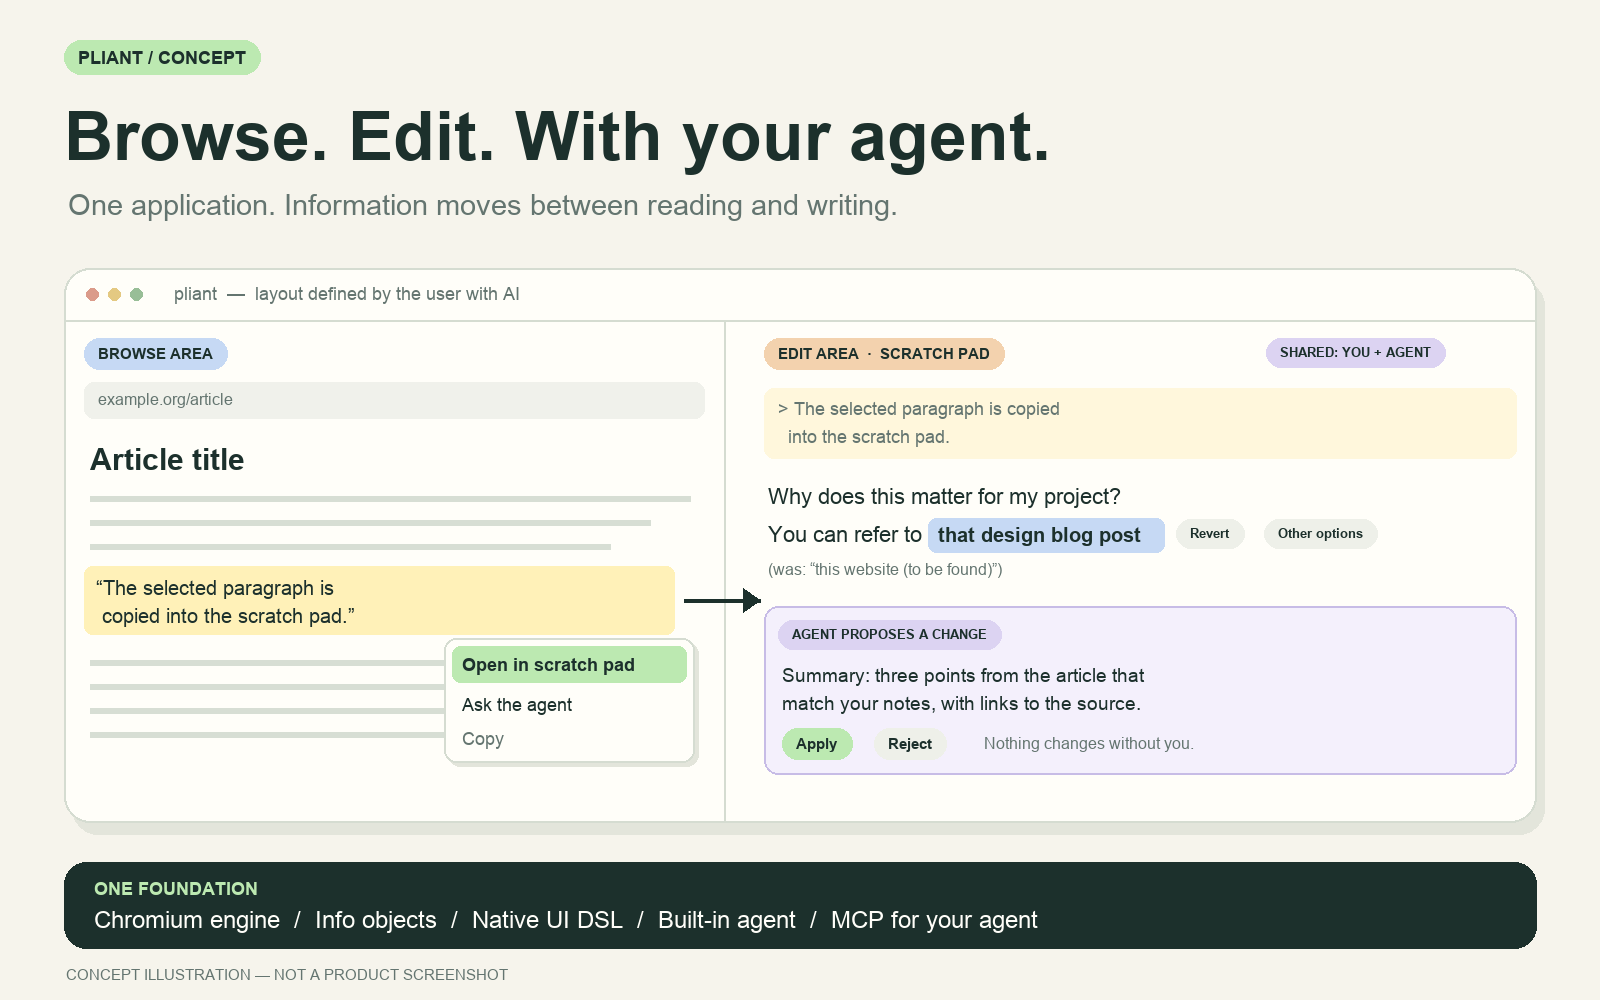
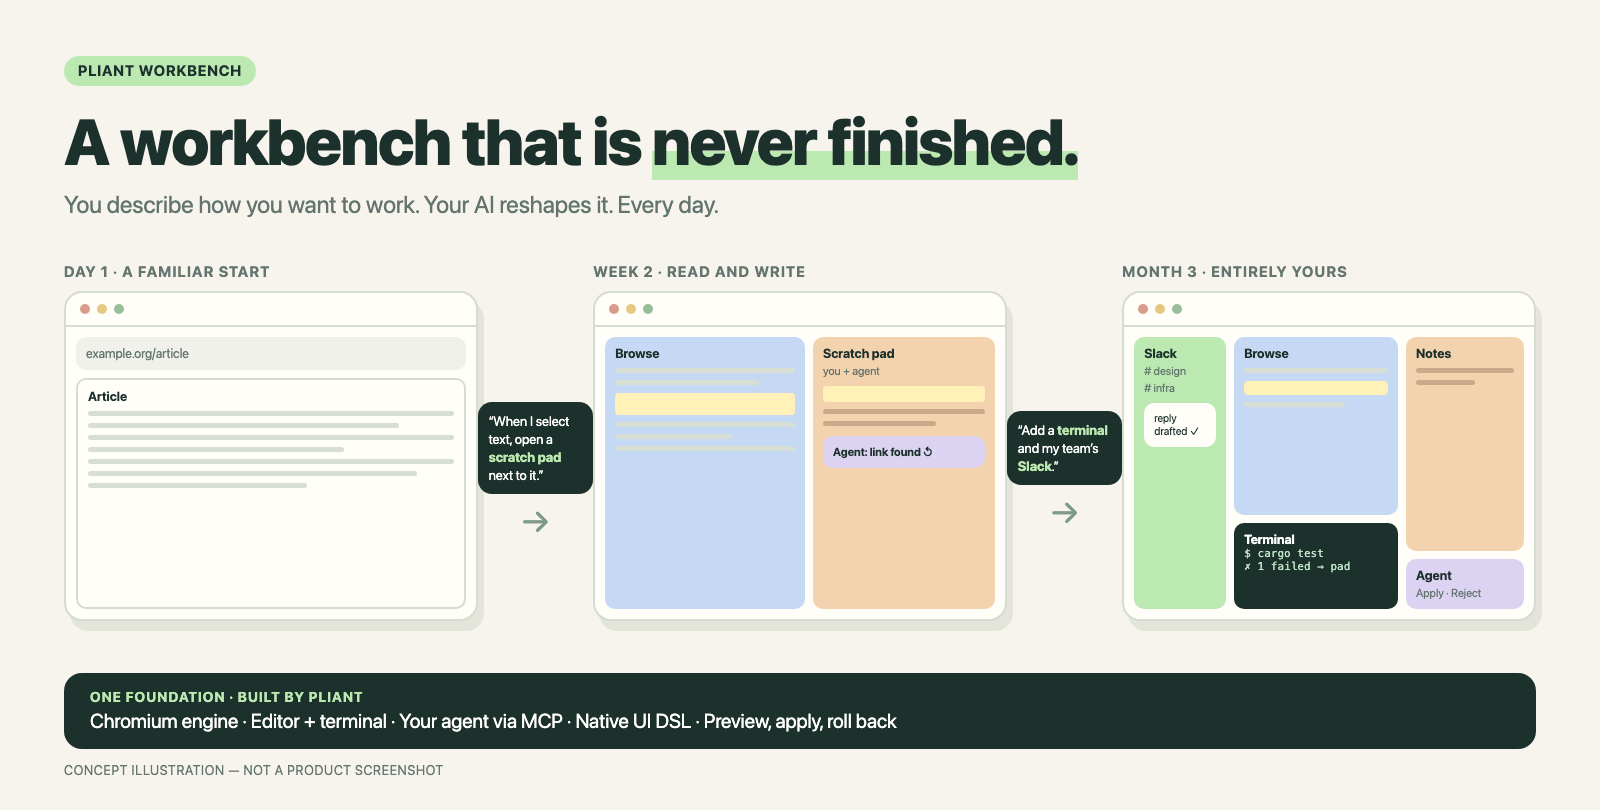
docs: redraw hero in HTML as an evolving workbench

diff --git a/assets/hero.html b/assets/hero.html
@@ -1,0 +1,79 @@
+<!doctype html>
+<!-- Source for assets/hero.png. Render: tools/render_hero.sh -->
+<html><head><meta charset="utf-8"><style>
+:root{--ink:#1C302C;--muted:#647570;--paper:#F6F4EC;--line:#D5DCD1;--white:#FFFEF9;
+--green:#BCE9B1;--blue:#C6D9F4;--orange:#F3D2AE;--purple:#DCD3F2;--yellow:#FFF1B8}
+*{box-sizing:border-box;margin:0;padding:0}
+body{width:1600px;height:810px;background:var(--paper);font-family:-apple-system,"SF Pro Display","Helvetica Neue",Arial,sans-serif;color:var(--ink);padding:56px 64px;overflow:hidden}
+.tag{display:inline-block;background:var(--green);border-radius:20px;padding:6px 14px;font-size:15px;font-weight:700;letter-spacing:.06em}
+h1{font-size:64px;font-weight:800;letter-spacing:-.02em;margin-top:18px}
+h1 em{font-style:normal;background:linear-gradient(transparent 62%,var(--green) 62%)}
+.sub{font-size:24px;color:var(--muted);margin-top:10px}
+.row{display:flex;align-items:flex-start;gap:0;margin-top:44px}
+.stage{width:430px}
+.when{font-size:15px;font-weight:700;letter-spacing:.08em;color:var(--muted);margin-bottom:10px}
+.win{height:330px;background:var(--white);border:2px solid var(--line);border-radius:18px;box-shadow:6px 10px 0 #E3E5DB;overflow:hidden;display:flex;flex-direction:column}
+.bar{height:34px;border-bottom:2px solid var(--line);display:flex;align-items:center;gap:7px;padding:0 14px;flex:none}
+.dot{width:10px;height:10px;border-radius:50%}
+.body{flex:1;display:flex;gap:8px;padding:10px}
+.col{display:flex;flex-direction:column;gap:8px}
+.p{border-radius:10px;padding:9px 10px;font-size:13px;font-weight:700;position:relative}
+.p small{display:block;font-weight:400;color:var(--muted);margin-top:3px;font-size:11.5px}
+.ln{height:5px;border-radius:3px;background:#D7DED4;margin-top:7px}
+.hl{background:var(--yellow);border-radius:4px;height:22px;margin-top:8px}
+.mono{font-family:"SF Mono",Menlo,monospace;font-weight:500;font-size:11px;color:#BFE6C8}
+.say{width:120px;align-self:center;margin-top:60px;text-align:center;position:relative}
+.bubble{background:var(--ink);color:#fff;font-size:13.5px;line-height:1.35;border-radius:14px;padding:10px 11px;text-align:left}
+.bubble b{color:var(--green)}
+.arrow{font-size:34px;color:#7E9A8C;margin-top:8px}
+.foot{margin-top:52px;display:flex;justify-content:space-between;align-items:center}
+.base{background:var(--ink);color:#fff;border-radius:18px;padding:16px 26px;font-size:20px;flex:1}
+.base b{color:var(--green);font-size:14px;letter-spacing:.08em;display:block;margin-bottom:4px}
+.note{font-size:13px;color:var(--muted);letter-spacing:.06em;margin-top:14px}
+</style></head><body>
+<span class="tag">PLIANT WORKBENCH</span>
+<h1>A workbench that is <em>never finished.</em></h1>
+<div class="sub">You describe how you want to work. Your AI reshapes it. Every day.</div>
+
+<div class="row">
+ <!-- Day 1 -->
+ <div class="stage"><div class="when">DAY 1 · A FAMILIAR START</div>
+  <div class="win"><div class="bar"><i class="dot" style="background:#DB9B8A"></i><i class="dot" style="background:#E4C982"></i><i class="dot" style="background:#98BE97"></i></div>
+   <div class="body"><div class="col" style="flex:1">
+    <div class="p" style="background:#F0F1EB;font-weight:400;color:var(--muted)">example.org/article</div>
+    <div class="p" style="background:var(--white);border:2px solid var(--line);flex:1">Article
+     <div class="ln"></div><div class="ln" style="width:85%"></div><div class="ln"></div><div class="ln" style="width:70%"></div><div class="ln"></div><div class="ln" style="width:90%"></div><div class="ln" style="width:60%"></div></div>
+   </div></div></div></div>
+
+ <div class="say"><div class="bubble">“When I select text, open a <b>scratch pad</b> next to it.”</div><div class="arrow">→</div></div>
+
+ <!-- Week 2 -->
+ <div class="stage"><div class="when">WEEK 2 · READ AND WRITE</div>
+  <div class="win"><div class="bar"><i class="dot" style="background:#DB9B8A"></i><i class="dot" style="background:#E4C982"></i><i class="dot" style="background:#98BE97"></i></div>
+   <div class="body">
+    <div class="col" style="flex:1.1"><div class="p" style="background:var(--blue);flex:1">Browse
+     <div class="ln"></div><div class="ln" style="width:80%"></div><div class="hl"></div><div class="ln"></div><div class="ln" style="width:65%"></div><div class="ln"></div></div></div>
+    <div class="col" style="flex:1"><div class="p" style="background:var(--orange);flex:1">Scratch pad<small>you + agent</small>
+     <div class="hl" style="height:16px"></div><div class="ln" style="background:#C9A98A"></div><div class="ln" style="background:#C9A98A;width:70%"></div>
+     <div class="p" style="background:var(--purple);margin-top:10px;font-size:11.5px">Agent: link found ↺</div></div></div>
+   </div></div></div>
+
+ <div class="say"><div class="bubble">“Add a <b>terminal</b> and my team’s <b>Slack</b>.”</div><div class="arrow">→</div></div>
+
+ <!-- Month 3 -->
+ <div class="stage"><div class="when">MONTH 3 · ENTIRELY YOURS</div>
+  <div class="win"><div class="bar"><i class="dot" style="background:#DB9B8A"></i><i class="dot" style="background:#E4C982"></i><i class="dot" style="background:#98BE97"></i></div>
+   <div class="body">
+    <div class="col" style="width:92px"><div class="p" style="background:var(--green);flex:1">Slack<small># design</small><small># infra</small><div class="p" style="background:var(--white);margin-top:8px;font-size:11px;font-weight:400">reply drafted ✓</div></div></div>
+    <div class="col" style="flex:1">
+     <div class="p" style="background:var(--blue);flex:1">Browse<div class="ln"></div><div class="hl" style="height:14px"></div><div class="ln" style="width:70%"></div></div>
+     <div class="p" style="background:var(--ink);height:86px;color:#fff">Terminal<div class="mono">$ cargo test<br>✗ 1 failed → pad</div></div>
+    </div>
+    <div class="col" style="width:118px"><div class="p" style="background:var(--orange);flex:1">Notes<div class="ln" style="background:#C9A98A"></div><div class="ln" style="background:#C9A98A;width:60%"></div></div>
+     <div class="p" style="background:var(--purple)">Agent<small>Apply · Reject</small></div></div>
+   </div></div></div>
+</div>
+
+<div class="foot"><div class="base"><b>ONE FOUNDATION · BUILT BY PLIANT</b>Chromium engine · Editor + terminal · Your agent via MCP · Native UI DSL · Preview, apply, roll back</div></div>
+<div class="note">CONCEPT ILLUSTRATION — NOT A PRODUCT SCREENSHOT</div>
+</body></html>

diff --git a/tools/render_assets.py b/tools/render_assets.py
@@ -225,6 +225,5 @@ def architecture():
 
 
 if __name__ == '__main__':
-    hero()
     architecture()
-    print('Rendered assets/hero.png and assets/architecture.png')
+    print('Rendered assets/architecture.png. hero.png comes from assets/hero.html (headless Chrome, 1600x810).')

diff --git a/tools/README.md b/tools/README.md
@@ -8,7 +8,7 @@ activation, and recovery commands.
 product language. Tools expose and inspect product behavior but do not own
 upgrade policy, durable migration state, or the trusted recovery path.
 
-**Status:** [`render_assets.py`](render_assets.py) renders the checked-in concept
+**Status:** [`render_assets.py`](render_assets.py) renders `architecture.png`. `assets/hero.html` is the source for `hero.png`: screenshot it with headless Chrome at 1600x810. Both are concept
 artwork. The obsolete directory/link checker was removed during the implemented
 layout migration. No general product build/preview toolchain exists yet. Do not
 add scaffold or checkout-only validators and tests as a substitute for
